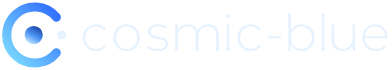
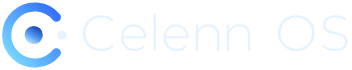
Show "Celenn OS" on the boot screen and the default wallpaper (#291)
The boot screen watermark still showed the old name: it is now rendered by branding/plymouth/render.js from a new logo variant with the full name "Celenn OS" (glyphs.json gains its outlines). The default wallpaper's corner name also reads "Celenn OS" instead of the lowercase wordmark.

Claude-Session: https://claude.ai/code/session_01MxskLK4TnXwvhzLkgrgB23

diff --git a/branding/plymouth/render.js b/branding/plymouth/render.js
@@ -1,19 +1,27 @@
-// Render the boot screen logo (Plymouth bgrt-fallback.png) from the logo SVG,
-// with Playwright's Chromium. Usage: node render.js (from this folder)
+// Render the boot screen images from the logo SVGs, with Playwright's
+// Chromium: bgrt-fallback.png (the mark, 192 px square) and watermark.png
+// (the mark and "Celenn OS", 70 px high). Usage: node render.js (from this
+// folder)
 const { chromium } = require('playwright');
 const fs = require('fs');
 const path = require('path');
 
-const SIZE = 192; // px; the mark fills the square
-const svg = fs.readFileSync(path.join(__dirname, '../logo/celenn-logo.svg'), 'utf8');
-const out = path.join(__dirname,
-  '../../system_files/usr/share/plymouth/themes/celenn/bgrt-fallback.png');
+const logo = (name) => fs.readFileSync(path.join(__dirname, '../logo', name), 'utf8');
+const theme = path.join(__dirname, '../../system_files/usr/share/plymouth/themes/celenn');
+const HEIGHT = 70; // of the watermark
 
 (async () => {
   const browser = await chromium.launch();
-  const page = await browser.newPage({ viewport: { width: SIZE, height: SIZE }, deviceScaleFactor: 1 });
-  await page.setContent('<html><body style="margin:0;overflow:hidden;background:transparent">' + svg + '</body></html>');
-  await page.evaluate(() => { document.querySelector('svg').style.cssText = 'width:100vw;height:100vh;display:block'; });
-  await page.screenshot({ path: out, omitBackground: true });
+  const render = async (svg, width, height, out) => {
+    const page = await browser.newPage({ viewport: { width, height }, deviceScaleFactor: 1 });
+    await page.setContent('<html><body style="margin:0;overflow:hidden;background:transparent">' + svg + '</body></html>');
+    await page.evaluate(() => { document.querySelector('svg').style.cssText = 'width:100vw;height:100vh;display:block'; });
+    await page.screenshot({ path: path.join(theme, out), omitBackground: true });
+    await page.close();
+  };
+  await render(logo('celenn-logo.svg'), 192, 192, 'bgrt-fallback.png');
+  const name = logo('celenn-os-logo-horizontal-dark.svg');
+  const [, , w, h] = name.match(/viewBox="([^"]+)"/)[1].split(' ').map(Number);
+  await render(name, Math.round(w * HEIGHT / h), HEIGHT, 'watermark.png');
   await browser.close();
 })();

diff --git a/branding/logo/glyphs.py b/branding/logo/glyphs.py
@@ -1,7 +1,9 @@
 #!/usr/bin/env python3
-"""Write glyphs.json: the outlines of the wordmark "celenn" in Montserrat
-Light (weight 300), one SVG path per letter plus its ink extent, in the units
-build.py expects (84 px letters, baseline at y 2670).
+"""Write glyphs.json: the outlines of the wordmark "celenn", and of the full
+name "Celenn OS" (under "name", for the wallpaper and the boot screen), in
+Montserrat Light (weight 300), one SVG path per letter plus its ink extent, in
+the units build.py expects (84 px letters, baseline at y 2670). A space is an
+empty path as wide as the font's space.
 
 Needs fontTools and Montserrat's variable font from Google Fonts:
   curl -fsSLo Montserrat.ttf 'https://raw.githubusercontent.com/google/fonts/main/ofl/montserrat/Montserrat%5Bwght%5D.ttf'
@@ -17,19 +19,29 @@ from fontTools.pens.transformPen import TransformPen
 from fontTools.ttLib import TTFont
 from fontTools.varLib.instancer import instantiateVariableFont
 
-WORD = "celenn"
+WORD, NAME = "celenn", "Celenn OS"
 K, BASE = 0.084, 2670.0  # font units to wordmark units, baseline
 
 font = instantiateVariableFont(TTFont(sys.argv[1]), {"wght": 300})
 glyphs, cmap = font.getGlyphSet(), font.getBestCmap()
-paths, extents = [], []
-for letter in WORD:
-    glyph = glyphs[cmap[ord(letter)]]
-    pen = SVGPathPen(glyphs, ntos=lambda v: f"{round(v, 3):g}")
-    glyph.draw(TransformPen(pen, (K, 0, 0, -K, 0, BASE)))
-    bounds = BoundsPen(glyphs)
-    glyph.draw(bounds)
-    paths.append(pen.getCommands())
-    extents.append([round(bounds.bounds[0] * K, 3), round(bounds.bounds[2] * K, 3)])
+
+
+def outlines(word):
+    paths, extents = [], []
+    for letter in word:
+        glyph = glyphs[cmap[ord(letter)]]
+        if letter == " ":
+            paths.append("")
+            extents.append([0, round(glyph.width * K, 3)])
+            continue
+        pen = SVGPathPen(glyphs, ntos=lambda v: f"{round(v, 3):g}")
+        glyph.draw(TransformPen(pen, (K, 0, 0, -K, 0, BASE)))
+        bounds = BoundsPen(glyphs)
+        glyph.draw(bounds)
+        paths.append(pen.getCommands())
+        extents.append([round(bounds.bounds[0] * K, 3), round(bounds.bounds[2] * K, 3)])
+    return {"gl": paths, "bb": extents}
+
+
 (Path(__file__).parent / "glyphs.json").write_text(
-    json.dumps({"gl": paths, "bb": extents}, separators=(",", ":")))
+    json.dumps({**outlines(WORD), "name": outlines(NAME)}, separators=(",", ":")))

diff --git a/branding/logo/build.py b/branding/logo/build.py
@@ -10,7 +10,8 @@ from pathlib import Path
 
 HERE = Path(__file__).resolve().parent
 J = json.loads((HERE / "glyphs.json").read_text())
-GLYPHS, EXTENTS = J["gl"], J["bb"]
+# the wordmark "celenn", and the full name "Celenn OS" (wallpaper, boot screen)
+WORD, NAME = (J["gl"], J["bb"]), (J["name"]["gl"], J["name"]["bb"])
 TOP, BASE = 2607.672, 2670.336  # ascender top and baseline of the outlines
 
 DEFS = """<defs>
@@ -29,10 +30,11 @@ def mark(moon="#e6f3ff"):
     )
 
 
-def wordmark(fill, tracking=12):
+def wordmark(fill, letters=WORD, tracking=12):
     parts, x = [], 0.0
-    for glyph, (x0, x1) in zip(GLYPHS, EXTENTS):
-        parts.append(f'<path transform="translate({x - x0:.2f} 0)" d="{glyph}"/>')
+    for glyph, (x0, x1) in zip(*letters):
+        if glyph:  # a space has no outline
+            parts.append(f'<path transform="translate({x - x0:.2f} 0)" d="{glyph}"/>')
         x += (x1 - x0) + tracking
     return f'<g fill="{fill}">{"".join(parts)}</g>', x - tracking
 
@@ -42,8 +44,8 @@ def svg(viewbox, body, title="Celenn OS"):
             f"<title>{title}</title>{DEFS}{body}</svg>\n")
 
 
-def horizontal(fill, moon):
-    text, width = wordmark(fill)
+def horizontal(fill, moon, letters=WORD):
+    text, width = wordmark(fill, letters)
     height = 54.0                      # wordmark height, in mark units
     scale = height / (BASE - TOP)
     body = (f'<g transform="translate(50 50)">{mark(moon)}</g>'
@@ -62,3 +64,5 @@ def horizontal(fill, moon):
     '<circle cx="38" cy="0" r="6.5"/></g></svg>\n')
 (HERE / "celenn-logo-horizontal-dark.svg").write_text(horizontal("#e6f3ff", "#e6f3ff"))
 (HERE / "celenn-logo-horizontal-light.svg").write_text(horizontal("#0b2a8a", "#2f6bff"))
+# Mark + "Celenn OS", for the default wallpaper and the boot screen
+(HERE / "celenn-os-logo-horizontal-dark.svg").write_text(horizontal("#e6f3ff", "#e6f3ff", NAME))

diff --git a/branding/wallpaper/logo_mark.py b/branding/wallpaper/logo_mark.py
@@ -20,7 +20,7 @@ W, H = 5120, 2880
 # wide), centred 60 px below the middle
 SCALE = 2900 / 559.7
 MARK = (W / 2 - 559.7 * SCALE / 2 + 50 * SCALE, H / 2 + 60)
-LOGO = (Path(__file__).parent / "../logo/celenn-logo-horizontal-dark.svg").read_text()
+LOGO = (Path(__file__).parent / "../logo/celenn-os-logo-horizontal-dark.svg").read_text()
 # the horizontal logo's text runs from x 118 to its width less 6, and from
 # y 19 to 81, in logo units
 TEXT_RIGHT = float(LOGO.split('viewBox="0 0 ')[1].split()[0]) - 6

diff --git a/branding/README.md b/branding/README.md
@@ -4,7 +4,8 @@
 
 The "orbit c": an open orbit around a planet, with a moon in the gap. The
 wordmark "celenn" is Montserrat Light, stored as outlines in `logo/glyphs.json`
-(written by `logo/glyphs.py`) so the SVGs need no font.
+(written by `logo/glyphs.py`) so the SVGs need no font. The same file holds the
+full name "Celenn OS", which the default wallpaper and the boot screen show.
 
 - `logo/celenn-logo.svg`: the mark (installed as the `celenn-logo` icon)
 - `logo/celenn-logo-symbolic.svg`: the mark in one color (installed as
@@ -15,6 +16,8 @@ wordmark "celenn" is Montserrat Light, stored as outlines in `logo/glyphs.json`
 - `logo/celenn-logo.png`: the mark, 512 px (Artifact Hub)
 - `logo/celenn-logo-horizontal-dark.svg` / `-light.svg`: mark + wordmark,
   for dark and light backgrounds
+- `logo/celenn-os-logo-horizontal-dark.svg`: mark + "Celenn OS", for dark
+  backgrounds (boot screen watermark, default wallpaper)
 
 ## Boot screen
 
@@ -24,9 +27,10 @@ theme (the PC maker's logo from the firmware, for a flicker-free boot) with
 our images:
 
 - `bgrt-fallback.png`: the mark at 192x192, shown in the middle when the
-  firmware has no logo (virtual machines, some PCs). Regenerate it with
-  `node plymouth/render.js` (Playwright).
-- `watermark.png`: the dark horizontal logo at 392x70, at the bottom
+  firmware has no logo (virtual machines, some PCs)
+- `watermark.png`: the mark and "Celenn OS" at 352x70, at the bottom
+
+Regenerate both with `node plymouth/render.js` (Playwright).
 - the spinner: Fedora's frames tinted with the orbit blues at build time
   (`build_files/plymouth/tint.py`)
 
@@ -40,8 +44,8 @@ Regenerate the SVGs with `python3 logo/build.py`.
 All 5120x2880, in `system_files/usr/share/backgrounds/celenn/`:
 
 - `celenn-arcs.jpg`: the logo mark, left of centre, its orbit
-  echoing outwards in fainter arcs, and the name small near the bottom
-  right corner, whole on 16:9, 16:10 and 3:2 screens once COSMIC crops the
+  echoing outwards in fainter arcs, and the name "Celenn OS" small near the
+  bottom right corner, whole on 16:9, 16:10 and 3:2 screens once COSMIC crops the
   wallpaper to fill (4:3, 5:4 and 21:9 screens cut part of it), with no stars
   next to it (`wallpaper/shaders/echoes.frag`, `wallpaper/logo_mark.py`), the
   default COSMIC wallpaper and the greeter background
